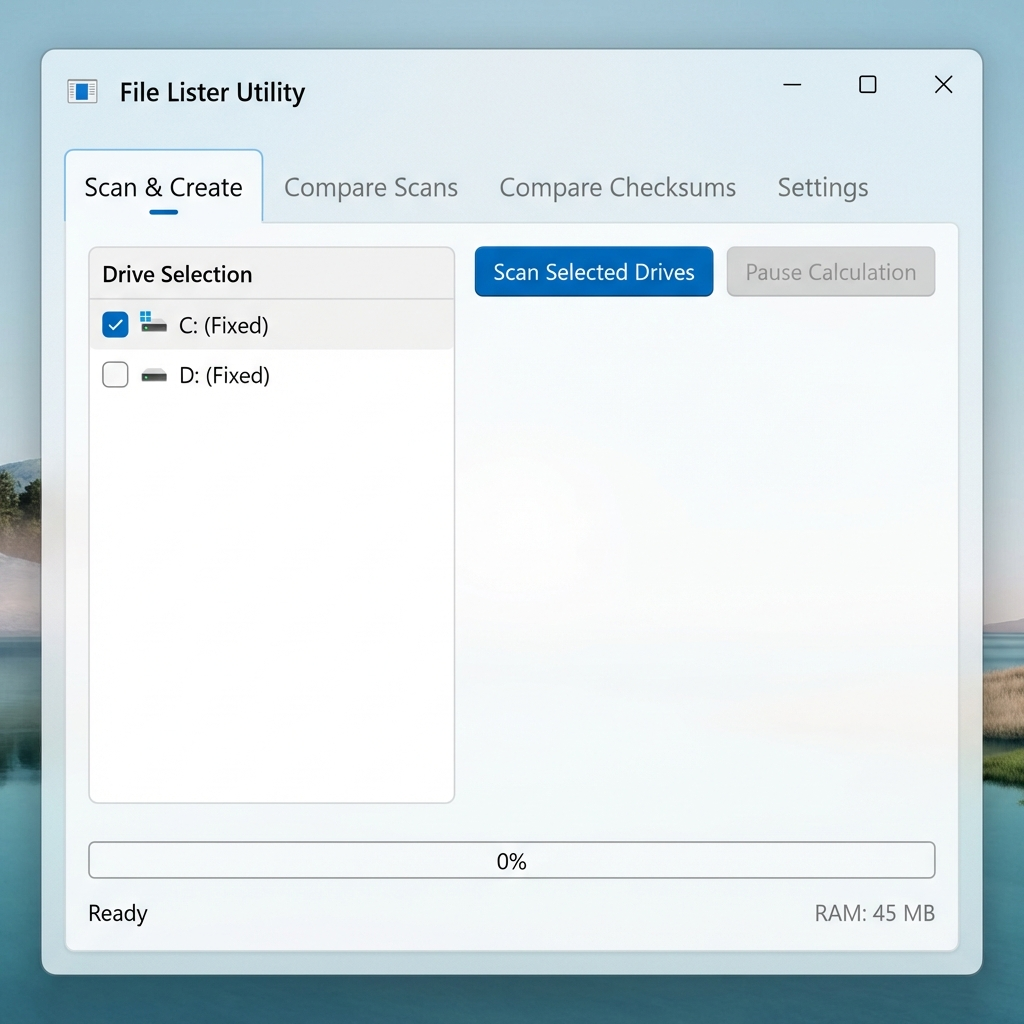
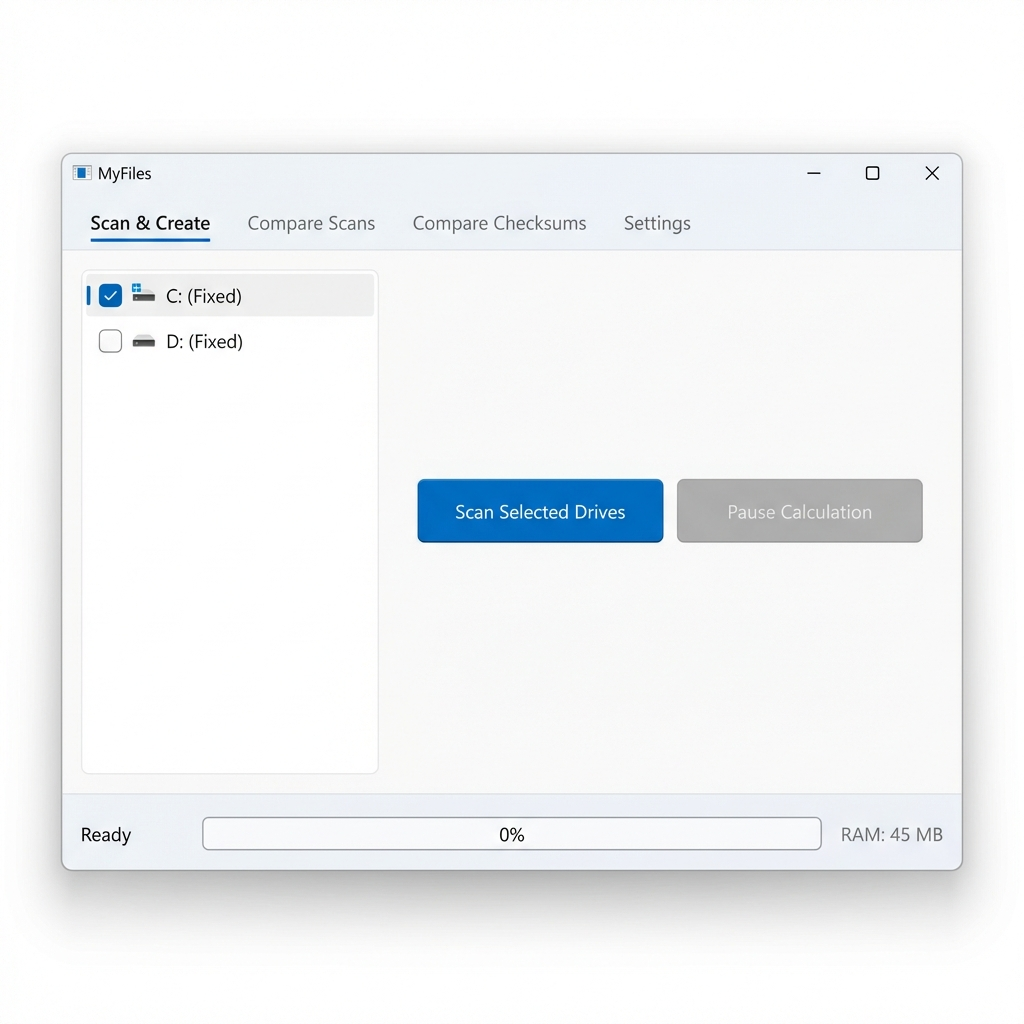
Update screenshot and Window Title to MyFiles

diff --git a/MainWindow.xaml b/MainWindow.xaml
@@ -2,7 +2,7 @@
         xmlns="http://schemas.microsoft.com/winfx/2006/xaml/presentation"
         xmlns:x="http://schemas.microsoft.com/winfx/2006/xaml"
         xmlns:local="clr-namespace:FileLister"
-        Title="File Lister Utility" Height="650" Width="900"
+        Title="MyFiles" Height="650" Width="900"
         Closing="Window_Closing">
     <Grid Margin="10">
         <TabControl>
